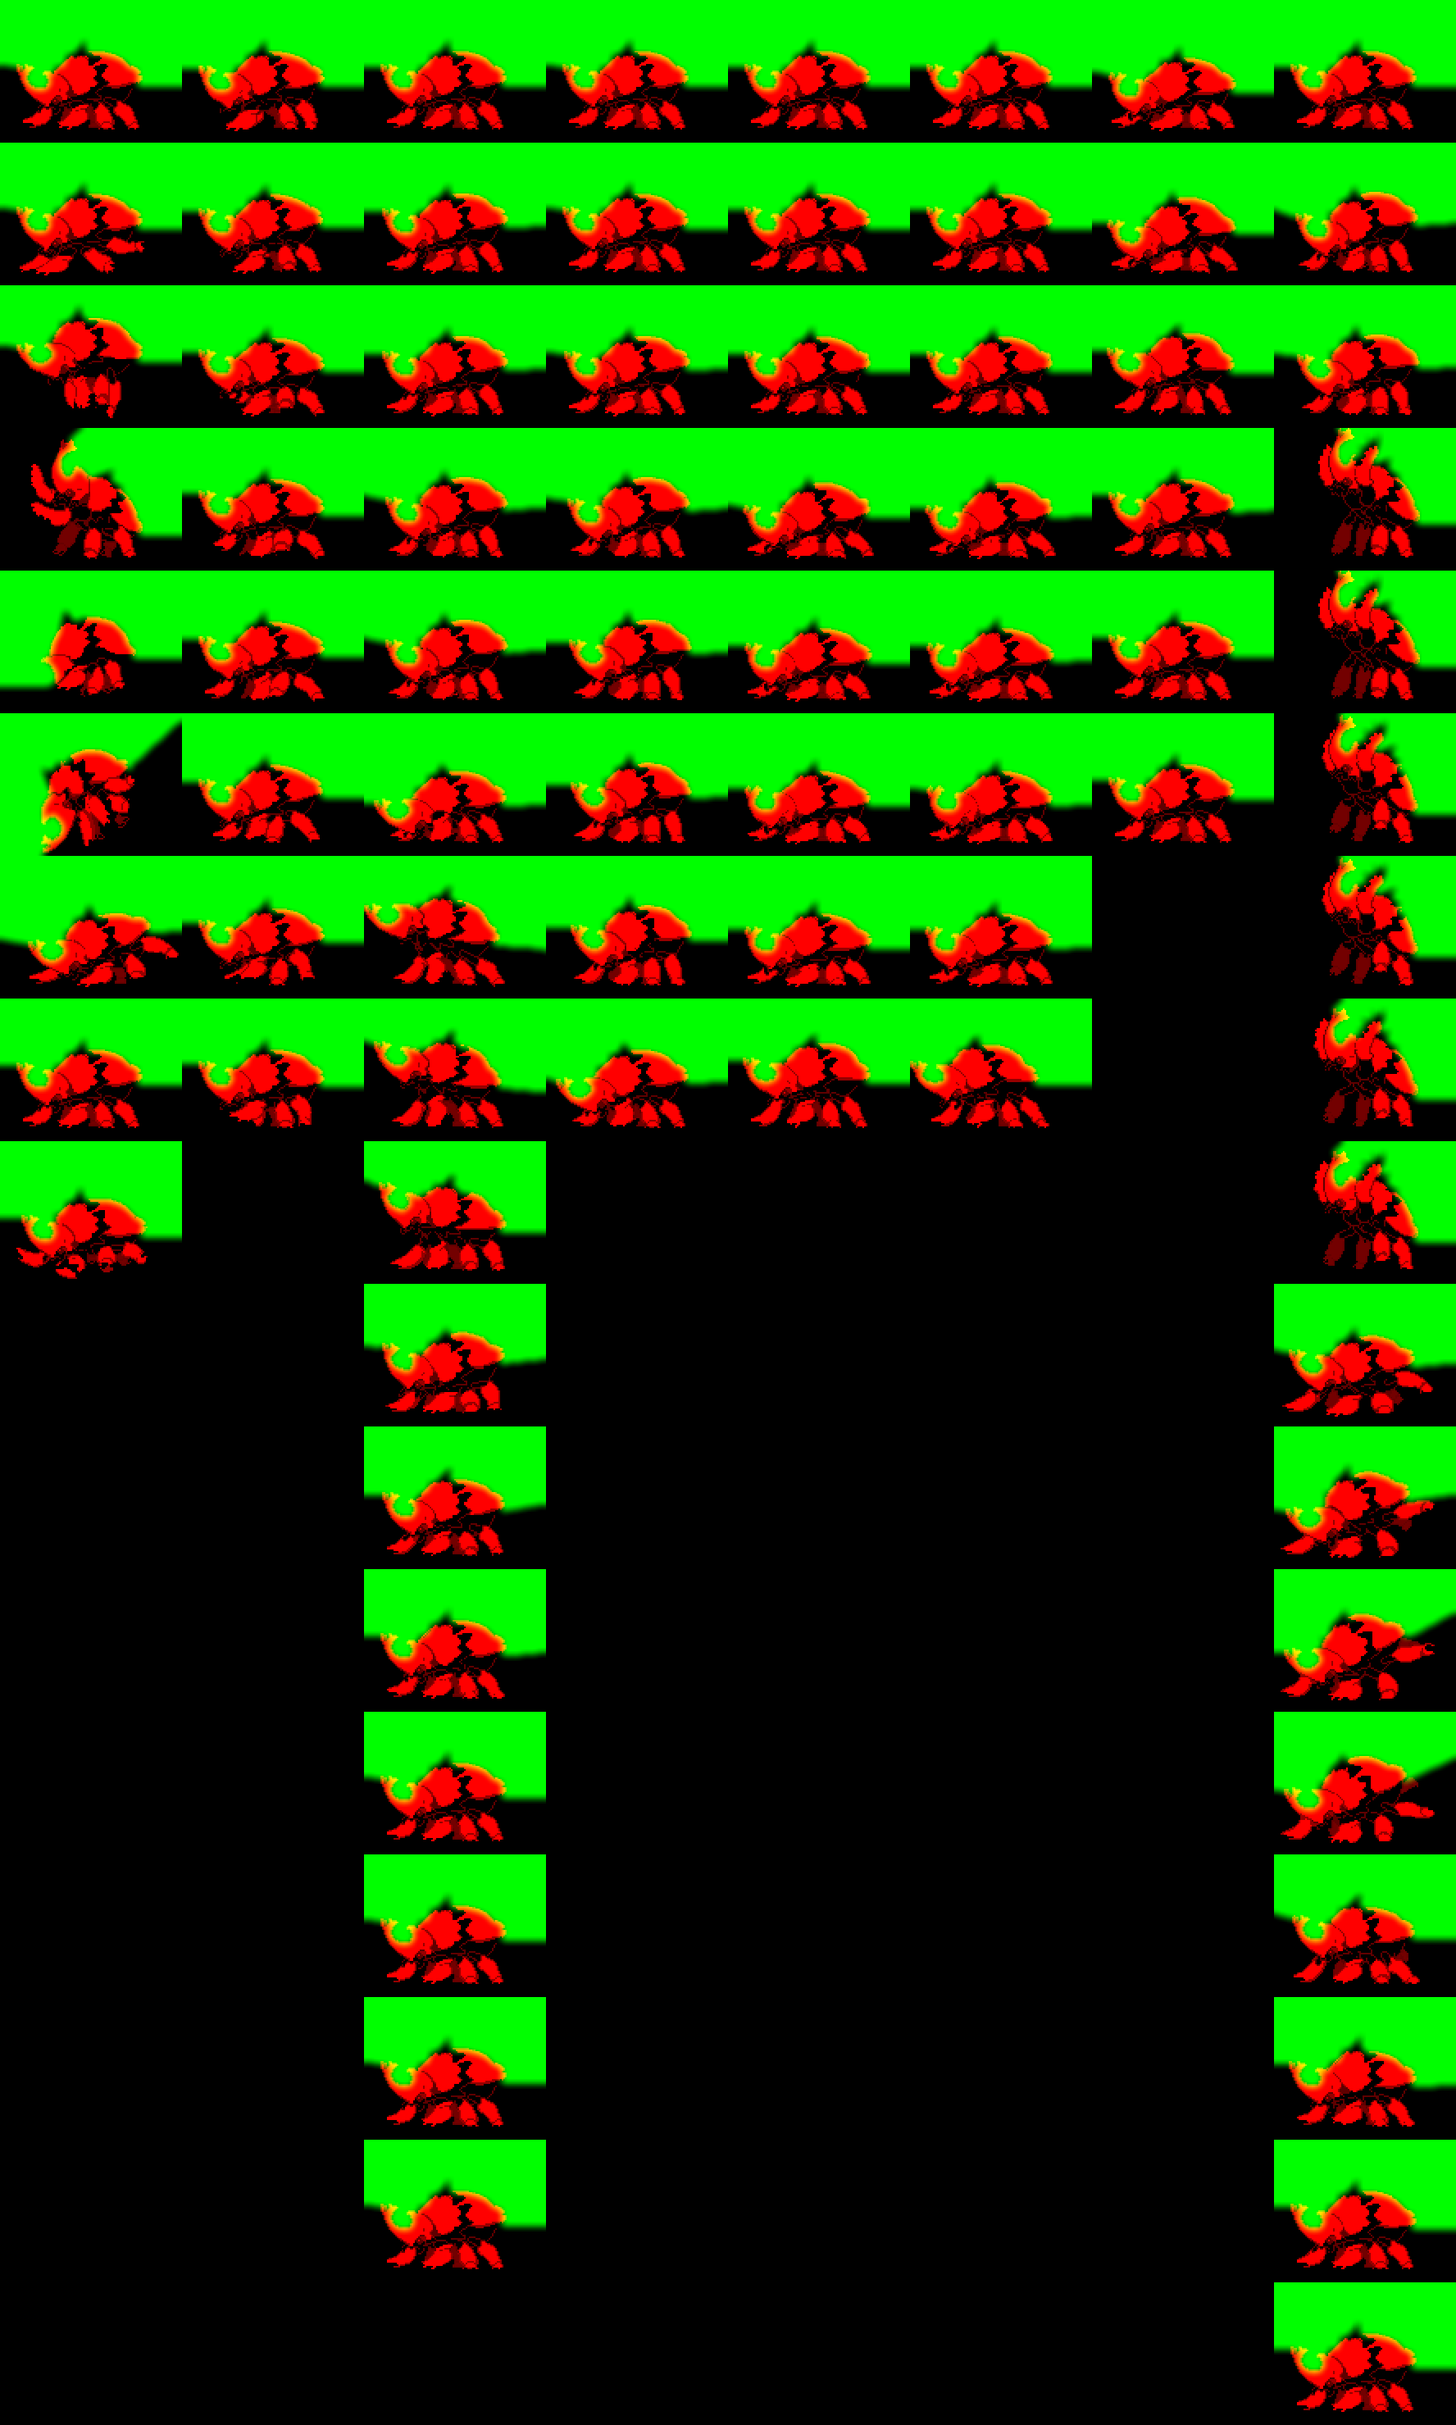
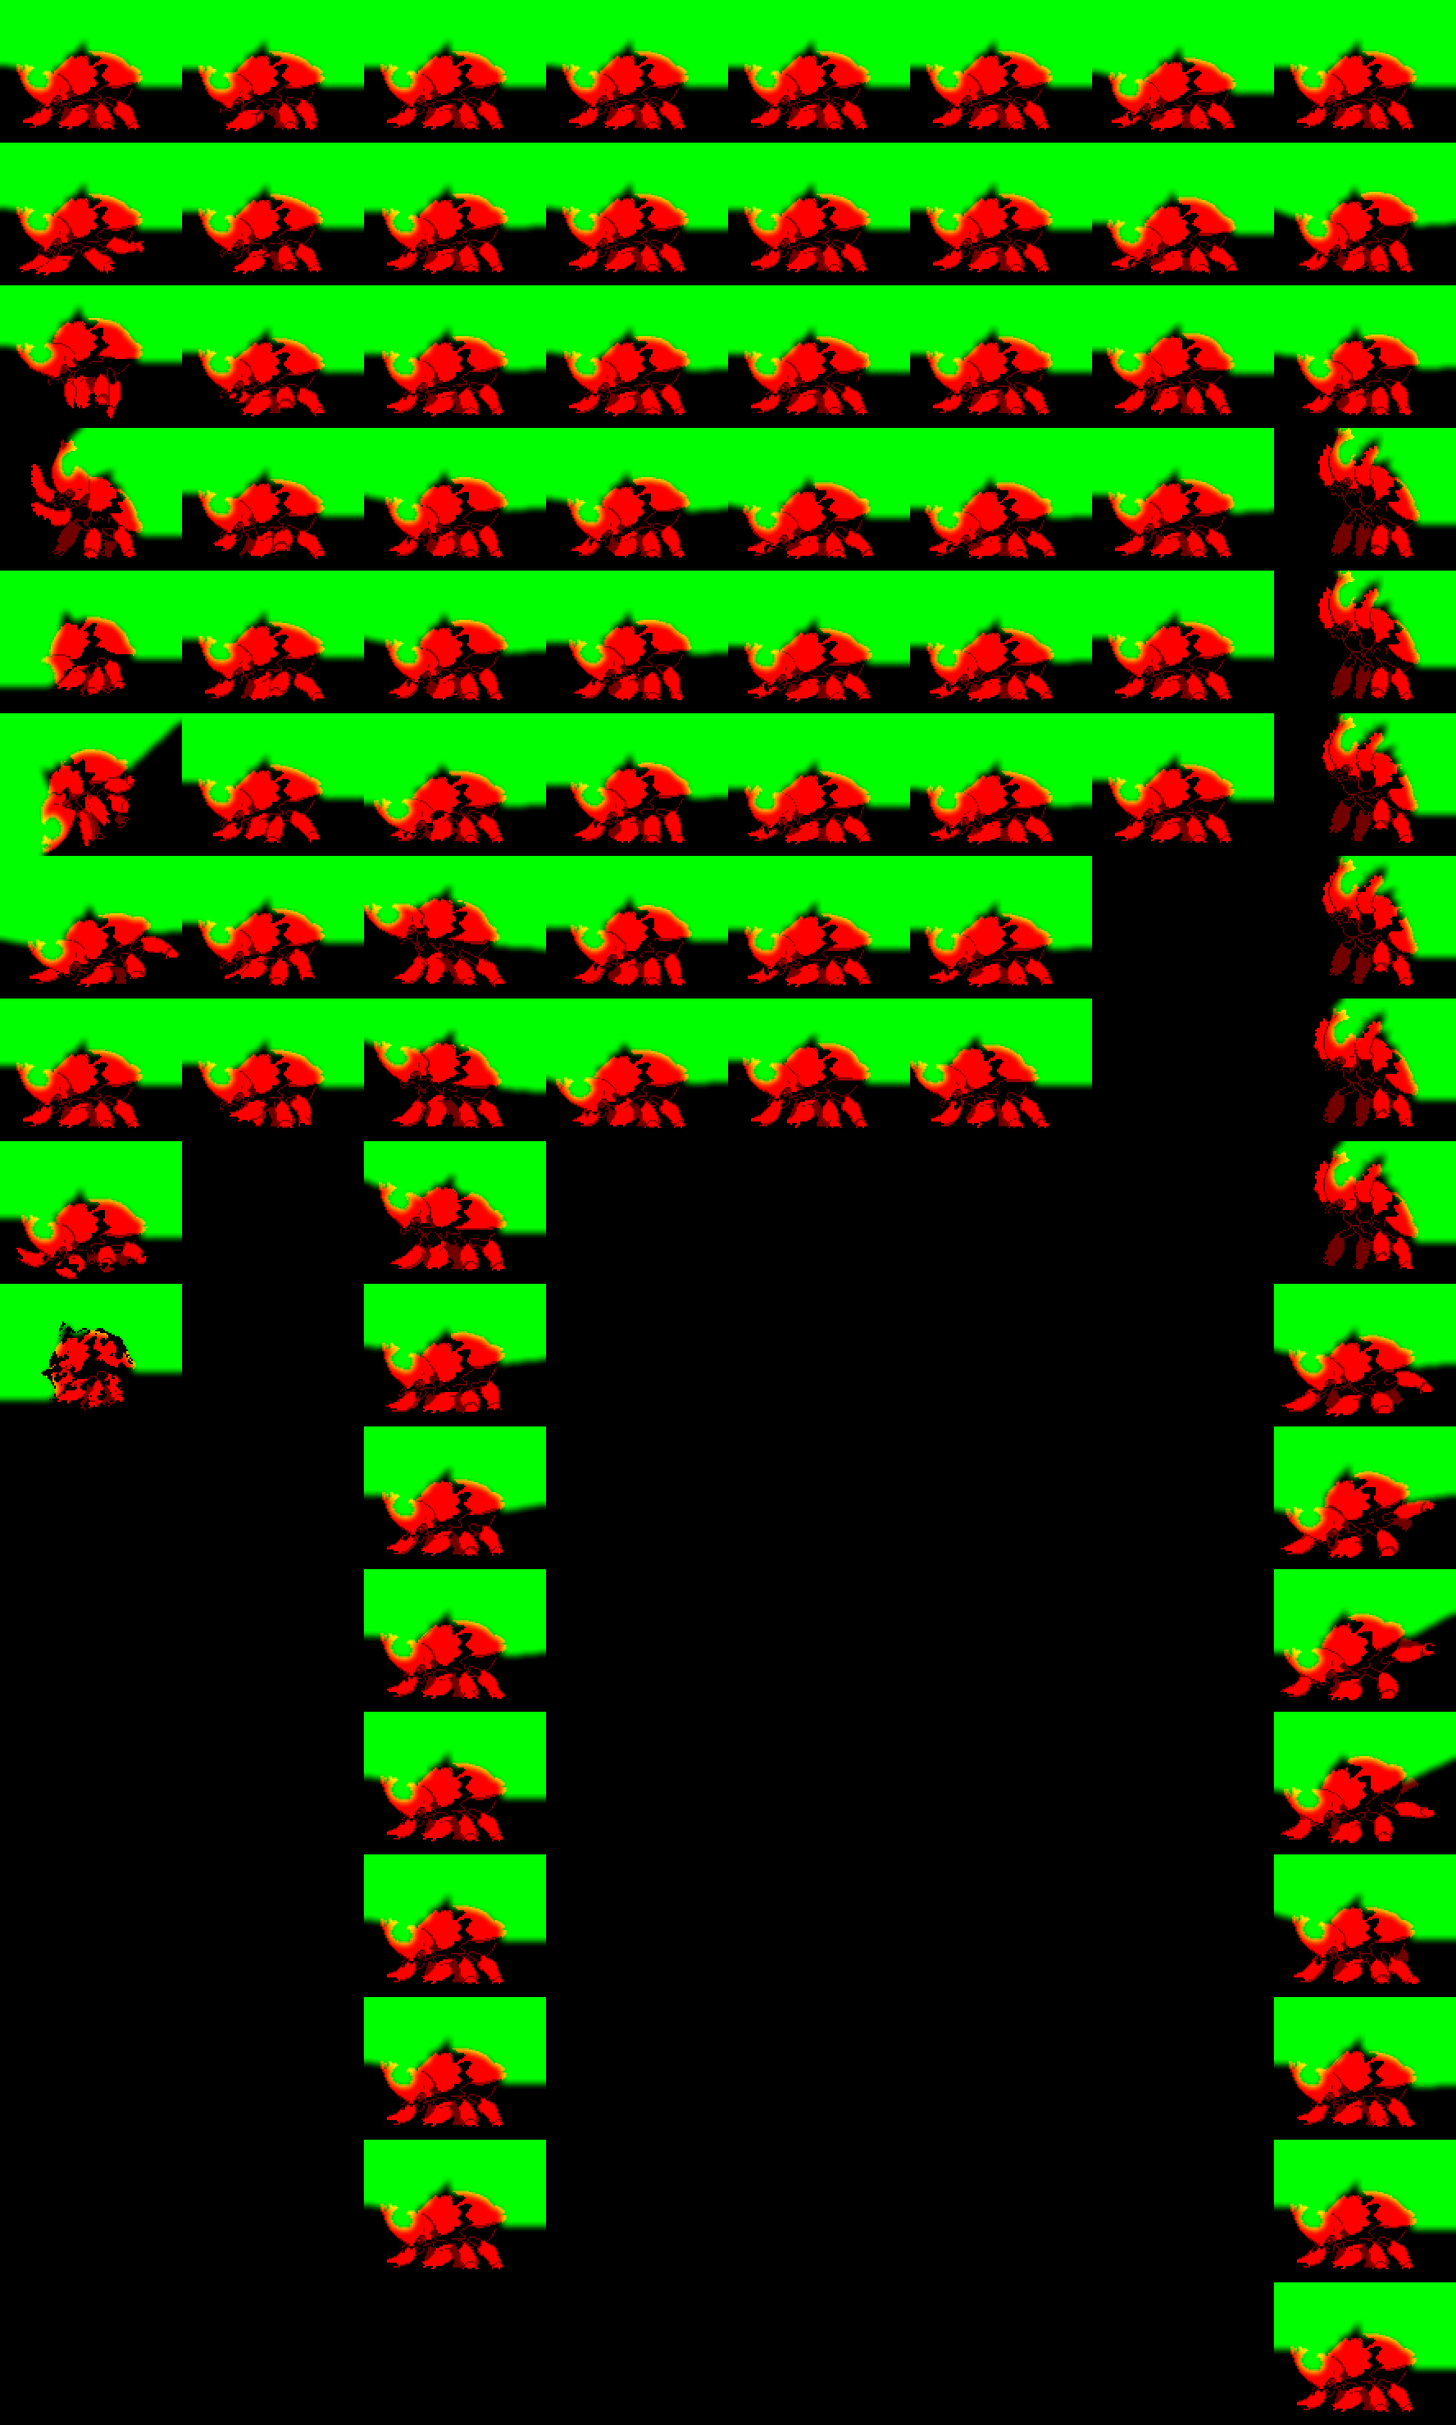
start

Changed region(s): [[0.0, 0.5287, 0.1239, 0.5909]]

diff --git a/Content/Desert/ScarabBoss/Boss/Scarabeus.DuoFight.cs b/Content/Desert/ScarabBoss/Boss/Scarabeus.DuoFight.cs
@@ -1,4 +1,5 @@
 using SpiritReforged.Common.Easing;
+using SpiritReforged.Common.MathHelpers;
 using SpiritReforged.Common.Misc;
 using SpiritReforged.Common.ModCompat;
 using SpiritReforged.Common.NPCCommon;
@@ -116,6 +117,9 @@ public partial class Scarabeus : ModNPC
 			case "renderScarab":
 				((args[2] as NPC).ModNPC as Scarabeus).PreDraw((SpriteBatch)args[3], (Vector2)args[4], (Color)args[5]);
 				return true;
+			case "getPukedOut":
+				((args[2] as NPC).ModNPC as Scarabeus).GetPukedOut((Vector2)args[3], (Vector2)args[4]);
+				return true;
 		}
 
 		return null;
@@ -203,6 +207,69 @@ public partial class Scarabeus : ModNPC
 			Profile = PhaseOneProfile;
 			ChangeState(AIState.IdleAwayFromPlayer);
 			return 0f;
+		}
+
+		return 1f;
+	}
+	#endregion
+
+	#region Takeoff from floor
+	public float DuoFightTakeoff(ref bool retarget)
+	{
+		retarget = false;
+		bool jumped = currentFrame == new Point(0, 2) && Profile == PhaseTwoProfile;
+
+		if (!jumped)
+		{
+			if (Counter == 0)
+				ShiftUpToFloorLevel();
+
+			NPC.velocity *= 0.5f;
+			NPC.rotation = 0;
+			NPC.noGravity = false;
+			NPC.noTileCollide = false;
+
+			if (currentFrame.Y < 10)
+				currentFrame.Y = 10;
+			if (currentFrame.Y is 19 or 21)
+				SetFrame(0, currentFrame.Y + 1, TakeoffProfile);
+
+			//Jump!!!
+			if (UpdateFrame(0, 11, TakeoffProfile, false) == FrameState.Stopped)
+			{
+				if (!Main.dedServ)
+				{
+					for (int i = 0; i < 20; i++)
+					{
+						Vector2 pos = NPC.Bottom;
+						pos.X += Main.rand.Next(-30, 30);
+						KickupDust(pos, new Vector2(0, -2f).RotatedByRandom(0.5f) * Main.rand.NextFloat(1, 5), ParticleLayer.BelowSolid);
+						KickupDust(pos, new Vector2(0, -1f).RotatedByRandom(1.5f) * Main.rand.NextFloat(1, 3));
+					}
+				}
+
+				SoundEngine.PlaySound(SoundID.DD2_MonkStaffSwing, NPC.Center);
+
+				SetFrame(0, 2, PhaseTwoProfile);
+				NPC.velocity.Y -= 25;
+				NPC.velocity.X += NPC.direction * 5;
+				Counter = 0;
+				NPC.noTileCollide = true;
+				NPC.noGravity = true;
+			}
+		}
+		else
+		{
+			NPC.velocity.Y *= 0.95f;
+			trailOpacity = EaseFunction.EaseQuinticIn.Ease(1f - Counter / 20f);
+			if (Counter >= 20)
+			{
+				if (FightingDScourge)
+					CrossMod.Fables.Instance.Call("spiritCrossmod.kaiju", "takeoffCompleted", scourgeFightManager);
+				//Fallback just in case something horrible happened
+				else
+					ChangeState(AIState.Swarm);
+			}
 		}
 
 		return 1f;
@@ -300,7 +367,36 @@ public partial class Scarabeus : ModNPC
 		NPC.Center = new Vector2(positionInfo.X, positionInfo.Y);
 		NPC.rotation = positionInfo.Z;
 		NPC.behindTiles = true;
+
+		if (CurrentState == AIState.DuoFightEaten)
+			NPC.Opacity = 0f;
+		else
+			NPC.Opacity = 1f;
+
 		return 1f;
+	}
+	#endregion
+
+	#region Attract Scarab then get eaten then get puked out
+	public static Point GunkBallFrame = new Point(0, 9);
+
+	public void GetPukedOut(Vector2 vomitPosition, Vector2 spitTarget)
+	{
+		const float _rollStartGravity = 0.15f;
+
+		NPC.Center = vomitPosition;
+		NPC.Opacity = 1f;
+
+		Player target = (Player)CrossMod.Fables.Instance.Call("spiritCrossmod.kaiju", "getScourgeTarget", scourgeFightManager);
+		spitTarget.X += Math.Sign(target.Center.X - NPC.Center.X) * 400;
+
+		Vector2 velocity =  ArcVelocityHelper.GetArcVel(NPC.Center, spitTarget, _rollStartGravity, minArcHeight: 130f, maxXvel: 50f, heightAboveTarget: 120);
+		NPC.velocity = velocity;
+
+		ChangeState(AIState.DuoFightGunkRoll);
+		NPC.noTileCollide = true;
+		NPC.noGravity = false;
+		SetFrame(GunkBallFrame, PhaseOneProfile);
 	}
 	#endregion
 
@@ -341,16 +437,30 @@ public partial class Scarabeus : ModNPC
 			StaticBouncingTileWave(rumbleCenter, rumbleWidth < 150 ? 5 : (int)(rumbleWidth / 18), Main.rand.NextFloat(4, 10), Main.rand.Next(30, 40), Main.rand.NextFloat(-rumbleArea.Width / 4, rumbleArea.Width / 4) * Vector2.UnitX);
 	}
 
-	private Effect GetElectricEffect(float electricityOpacity)
+	public void DrawElectricOutline(SpriteBatch spriteBatch, Effect electroShader, Texture2D texture, Vector2 position, Vector2 origin, Vector2 scale, SpriteEffects effects)
 	{
-		if (scourgeFightManager == null)
-			return null;
+		float electricOpacity = (float)CrossMod.Fables.Instance.Call("spiritCrossmod.kaiju", "scarabElectricShaderOpacity", scourgeFightManager);
+		if (electricOpacity <= 0f)
+			return;
 
-		Texture2D texture = Profile.Texture.Value;
-		if (currentFrame == RollFrame)
-			texture = BallProfile.Texture.Value;
+		//When electrified, draw an outline behind scarab
+		float prevOpacity = electroShader.Parameters["uOpacity"].GetValueSingle();
+		float glowValue = electroShader.Parameters["glowStrenght"].GetValueSingle();
 
-		return (Effect)CrossMod.Fables.Instance.Call("spiritCrossmod.kaiju", "setupElectricShader", scourgeFightManager, texture, NPC.frame, electricityOpacity);
+		//Set bright colors for the shader 
+		electroShader.Parameters["uOpacity"]?.SetValue(1f);
+		electroShader.Parameters["glowStrenght"]?.SetValue(324f);
+		foreach (EffectPass pass in electroShader.CurrentTechnique.Passes)
+			pass.Apply();
+
+		for (int i = 0; i < 4; i++)
+			spriteBatch.Draw(texture, position + Vector2.UnitX.RotatedBy(i / 4f * MathHelper.TwoPi) * 2f, NPC.frame, Color.White * electricOpacity, NPC.rotation, origin, scale, effects, 0);
+
+		//Reset shader params
+		electroShader.Parameters["uOpacity"]?.SetValue(prevOpacity);
+		electroShader.Parameters["glowStrenght"]?.SetValue(glowValue);
+		foreach (EffectPass pass in electroShader.CurrentTechnique.Passes)
+			pass.Apply();
 	}
 
 	private static void StaticBouncingTileWave(Vector2 rumblePos, int numTiles, float maxHeight, int totalTime = 60, Vector2? offset = null)

diff --git a/Content/Desert/ScarabBoss/Boss/Scarabeus.States.cs b/Content/Desert/ScarabBoss/Boss/Scarabeus.States.cs
@@ -1007,13 +1007,14 @@ public partial class Scarabeus : ModNPC
 	#region Roll
 	public float RollAttack(ref bool retarget)
 	{
+		bool comboedFromScourge = CurrentState == AIState.DuoFightGunkRoll;
+
 		retarget = false;
 		const int transition_time = 40;
 		ref float dashState = ref NPC.ai[2];
-		float rollSpeed = phaseTwo ? 30 : 22;
+		float rollSpeed = (comboedFromScourge || phaseTwo) ? 30 : 22;
 
 		NPC.behindTiles = dashState >= 1 && dashState < 3;
-
 		if (Counter == 0 && dashState == 0 && !phaseTwo)
 			NPC.FaceTarget();
 
@@ -1023,7 +1024,7 @@ public partial class Scarabeus : ModNPC
 			case 0:
 				bool doRollBounceTelegraph = false;
 
-				if (!phaseTwo)
+				if (!phaseTwo && !comboedFromScourge)
 				{
 					NPC.velocity.X *= 0.8f;
 					//Lil bob before the jump
@@ -1037,12 +1038,18 @@ public partial class Scarabeus : ModNPC
 						doRollBounceTelegraph = true;
 				}
 				//In phase 2, scarabeus can only do the roll dash from its flying swoop dash, and it starts with its velocity conserved
+				//Same goes for starting the roll as it gets vomited out by desert scourge
 				else
 				{
-					NPC.velocity.X = MathHelper.Lerp(NPC.velocity.X, 0f, 0.03f);
+					if (!comboedFromScourge)
+						NPC.velocity.X = MathHelper.Lerp(NPC.velocity.X, 0f, 0.03f);
 					NPC.velocity.Y += 0.15f;
 
-					SetFrame(RollFrame, PhaseTwoProfile);
+					if (!comboedFromScourge)
+						SetFrame(RollFrame, PhaseTwoProfile);
+					else
+						SetFrame(GunkBallFrame, PhaseOneProfile);
+
 					GroundPoundSpin();
 					dealContactDamage = true;
 					NPC.noGravity = false;
@@ -1061,7 +1068,7 @@ public partial class Scarabeus : ModNPC
 
 				if (doRollBounceTelegraph)
 				{
-					if (!phaseTwo)
+					if (!phaseTwo && !comboedFromScourge)
 						NPC.position.Y -= 20;
 
 					NPC.velocity.Y -= 9f;
@@ -1070,7 +1077,11 @@ public partial class Scarabeus : ModNPC
 					NPC.noTileCollide = true;
 					NPC.noGravity = false;
 					NPC.direction = (NPC.Center.X - Target.Center.X) < 0 ? 1 : -1;
-					SetFrame(RollFrame, phaseTwo ? PhaseTwoProfile : PhaseOneProfile);
+					if (!comboedFromScourge)
+						SetFrame(RollFrame, phaseTwo ? PhaseTwoProfile : PhaseOneProfile);
+					else
+						SetFrame(GunkBallFrame, PhaseOneProfile);
+
 					Counter = 0;
 					dashState++;
 
@@ -1100,12 +1111,16 @@ public partial class Scarabeus : ModNPC
 				break;
 
 			case 1: // Bounce before the roll
-				SetFrame(RollFrame, phaseTwo ? PhaseTwoProfile : PhaseOneProfile);
+				if (!comboedFromScourge)
+					SetFrame(RollFrame, phaseTwo ? PhaseTwoProfile : PhaseOneProfile);
+				else
+					SetFrame(GunkBallFrame, PhaseOneProfile);
+
 				GroundPoundSpin(true);
 				//NPC.rotation += 0.02f * NPC.direction * Math.Max(0, NPC.velocity.Y);
 
 				//Fall faster in P2 for faster telegraph
-				if (phaseTwo)
+				if (phaseTwo || comboedFromScourge)
 					NPC.velocity.Y += phaseTwo ? 0.12f : 0.08f;
 
 				dealContactDamage = true;
@@ -1179,12 +1194,15 @@ public partial class Scarabeus : ModNPC
 					return 0f;
 				}
 
-				SetFrame(RollFrame, phaseTwo ? PhaseTwoProfile : PhaseOneProfile);
+				if (!comboedFromScourge)
+					SetFrame(RollFrame, phaseTwo ? PhaseTwoProfile : PhaseOneProfile);
+				else
+					SetFrame(GunkBallFrame, PhaseOneProfile);
+
 				trailOpacity = Math.Min(1, Counter / 25f);
 				dealContactDamage = true;
 				if (!Main.dedServ)
 					CreateRollParticles();
-				//sfx here
 
 				if ((Target.Center.X - NPC.Center.X) * NPC.direction < -100)
 				{
@@ -2283,7 +2301,7 @@ public partial class Scarabeus : ModNPC
 		if (Counter < swarm_length && Counter % projectileSpawnDelay == 0)
 			SpawnBabySwarmer((int)(Counter / projectileSpawnDelay));
 
-		if (Counter >= attack_end_time)
+		if (Counter >= attack_end_time && !FightingDScourge)
 			return GoBackToIdle();
 
 		return 1f;

diff --git a/Content/Desert/ScarabBoss/Boss/Scarabeus.Drawing.cs b/Content/Desert/ScarabBoss/Boss/Scarabeus.Drawing.cs
@@ -58,15 +58,16 @@ public partial class Scarabeus : ModNPC
 	private FrameState UpdateFrame(int column, int framesPerSecond, VisualProfile profile, bool loop = true)
 	{
 		FrameState result = FrameState.Progressed;
-		Profile = profile;
 
-		if (currentFrame.X != column)
+		if (currentFrame.X != column || Profile != profile)
 		{
 			currentFrame.X = column;
 			currentFrame.Y = 0;
 
 			NPC.frameCounter = 0;
 		}
+
+		Profile = profile;
 
 		if (++NPC.frameCounter > 60.0 / Math.Abs(framesPerSecond))
 		{
@@ -112,7 +113,7 @@ public partial class Scarabeus : ModNPC
 		{
 			if (currentFrame.X != 0)
 				return true;
-			if (currentFrame.Y is < 1 or > 5)
+			if (currentFrame.Y is < 1 or (> 5 and < 9))
 				return true;
 			return false;
 		}
@@ -145,7 +146,7 @@ public partial class Scarabeus : ModNPC
 
 	public Effect GetShader(Texture2D texture, Texture2D sheenTexture, Rectangle frame)
 	{
-		if (FightingDScourge && (bool)CrossMod.Fables.Instance.Call("spiritCrossmod.kaiju", "scarabNeedsElectricShader", scourgeFightManager))
+		if (FightingDScourge && (float)CrossMod.Fables.Instance.Call("spiritCrossmod.kaiju", "scarabElectricShaderOpacity", scourgeFightManager) > 0)
 			return (Effect)CrossMod.Fables.Instance.Call("spiritCrossmod.kaiju", "setupElectricShader", scourgeFightManager, texture, NPC.frame, NPC.whoAmI);
 
 		Effect sheenShader = AssetLoader.LoadedShaders["ScarabeusIridescence"].Value;
@@ -233,8 +234,12 @@ public partial class Scarabeus : ModNPC
 		else
 		{
 			Effect sheenShader = GetShader(texture, Profile.SheenMask.Value, NPC.frame);
-			
 			FlipShadersOnOff(spriteBatch, sheenShader, true);
+
+			//When electrified, draw an outline behind scarab
+			if (FightingDScourge)
+				DrawElectricOutline(spriteBatch, sheenShader, texture, position, origin, scale, effects);
+
 			spriteBatch.Draw(texture, position, NPC.frame, NPC.DrawColor(drawColor), NPC.rotation, origin, scale, effects, 0);
 			FlipShadersOnOff(spriteBatch, null, false);
 

diff --git a/Content/Desert/ScarabBoss/Boss/Scarabeus.cs b/Content/Desert/ScarabBoss/Boss/Scarabeus.cs
@@ -193,9 +193,11 @@ public partial class Scarabeus : ModNPC
 		//Duo Fight Attacks
 		DuoFightSpawnAnim,
 		DuoFightSpawnAnimFallback,
-		DuoFightSwoopPincer,
 		DuoFightIdleStandStill,
 		DuoFightGrabbedByScourge,
+		DuoFightTakeoff,
+		DuoFightEaten,
+		DuoFightGunkRoll,
 
 		MaxValue
 	}
@@ -239,6 +241,9 @@ public partial class Scarabeus : ModNPC
 		_stateAI[(int)AIState.DuoFightSpawnAnimFallback] = (Scarabeus scarab, ref bool retarget) => scarab.DuoFightSpawnFallback(ref retarget);
 		_stateAI[(int)AIState.DuoFightIdleStandStill] = (Scarabeus scarab, ref bool retarget) => scarab.IdleBetweenAttacks(ref retarget);
 		_stateAI[(int)AIState.DuoFightGrabbedByScourge] = (Scarabeus scarab, ref bool retarget) => scarab.DuoFightGrabbedByScourge(ref retarget);
+		_stateAI[(int)AIState.DuoFightTakeoff] = (Scarabeus scarab, ref bool retarget) => scarab.DuoFightTakeoff(ref retarget);
+		_stateAI[(int)AIState.DuoFightEaten] = (Scarabeus scarab, ref bool retarget) => scarab.DuoFightGrabbedByScourge(ref retarget);
+		_stateAI[(int)AIState.DuoFightGunkRoll] = (Scarabeus scarab, ref bool retarget) => scarab.RollAttack(ref retarget);
 
 		Main.npcFrameCount[Type] = 17; //The highest frame count
 		NPCID.Sets.TrailCacheLength[Type] = 8;
@@ -396,6 +401,12 @@ public partial class Scarabeus : ModNPC
 
 	public void HandleDespawn()
 	{
+		if (FightingDScourge)
+		{
+			despawnTimer = 0;
+			return;
+		}
+
 		if (!NPC.HasPlayerTarget || !Target.ZoneDesert || !Main.dayTime || Target.DistanceSQ(NPC.Center) > 1000 * 1000)
 		{
 			if (++despawnTimer >= 60 * 20 && IsIdling)
